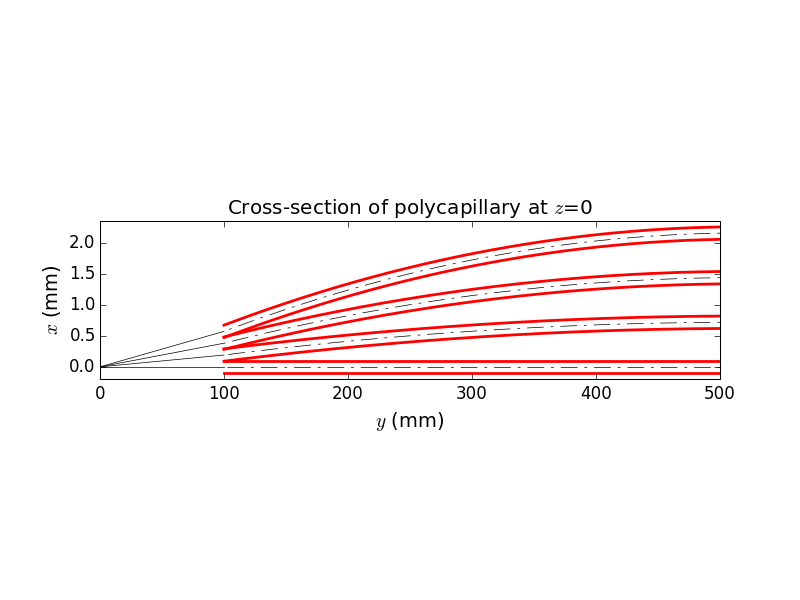
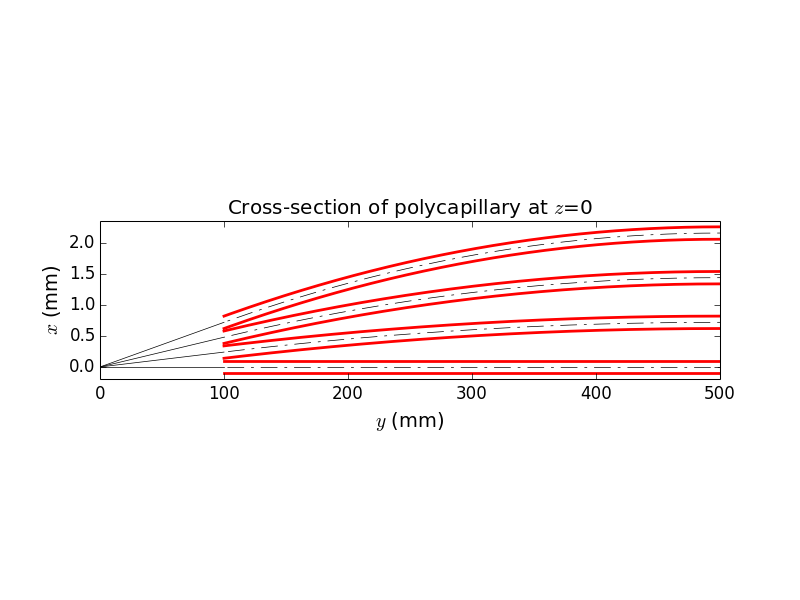
try to move screen ?

Changed region(s): [[0.125, 0.36, 0.9062, 0.63]]

diff --git a/myCapillary0A.py b/myCapillary0A.py
@@ -49,7 +49,7 @@ class BentCapillary(roe.OE):
         self.isParametric = True
 
     def local_x0(self, s):  # axis of capillary, x(s)
-        return self.a0 * (s+20)**2 + self.b0
+        return self.a0 * (s+0)**2 + self.b0
 
     def local_x0Prime(self, s):
         return 2 * self.a0 * s
@@ -94,7 +94,7 @@ def build_beamline(nrays=1000):
         beamLine, 'GeometricSource', (0, 0, 0), nrays=nrays,
         dx=0., dz=0., distxprime='annulus',
         distE='lines', energies=(E0,), polarization='horizontal')
-    beamLine.fsm1 = rsc.Screen(beamLine, 'DiamondFSM1', (0, rSample, 0))
+    beamLine.fsm1 = rsc.Screen(beamLine, 'DiamondFSM1', (0, 5*rSample, 0))
     beamLine.capillaries = []
     beamLine.firstInLayer = []
     beamLine.xzMax = 0
